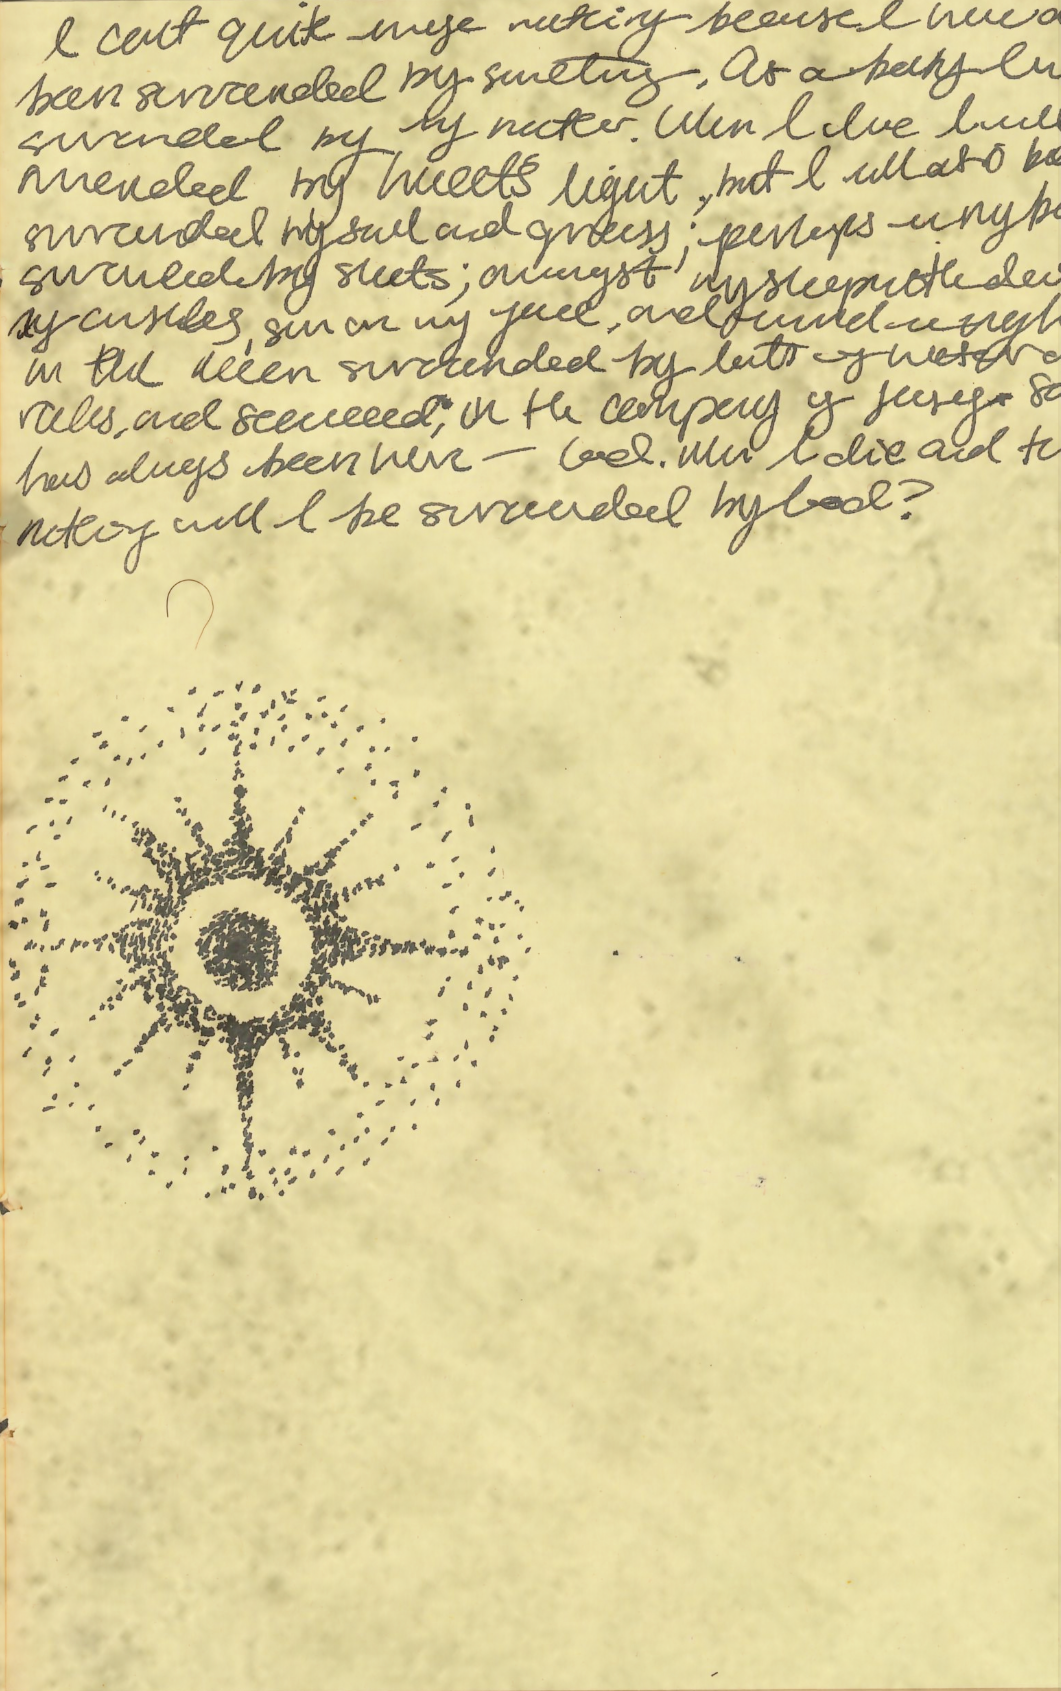
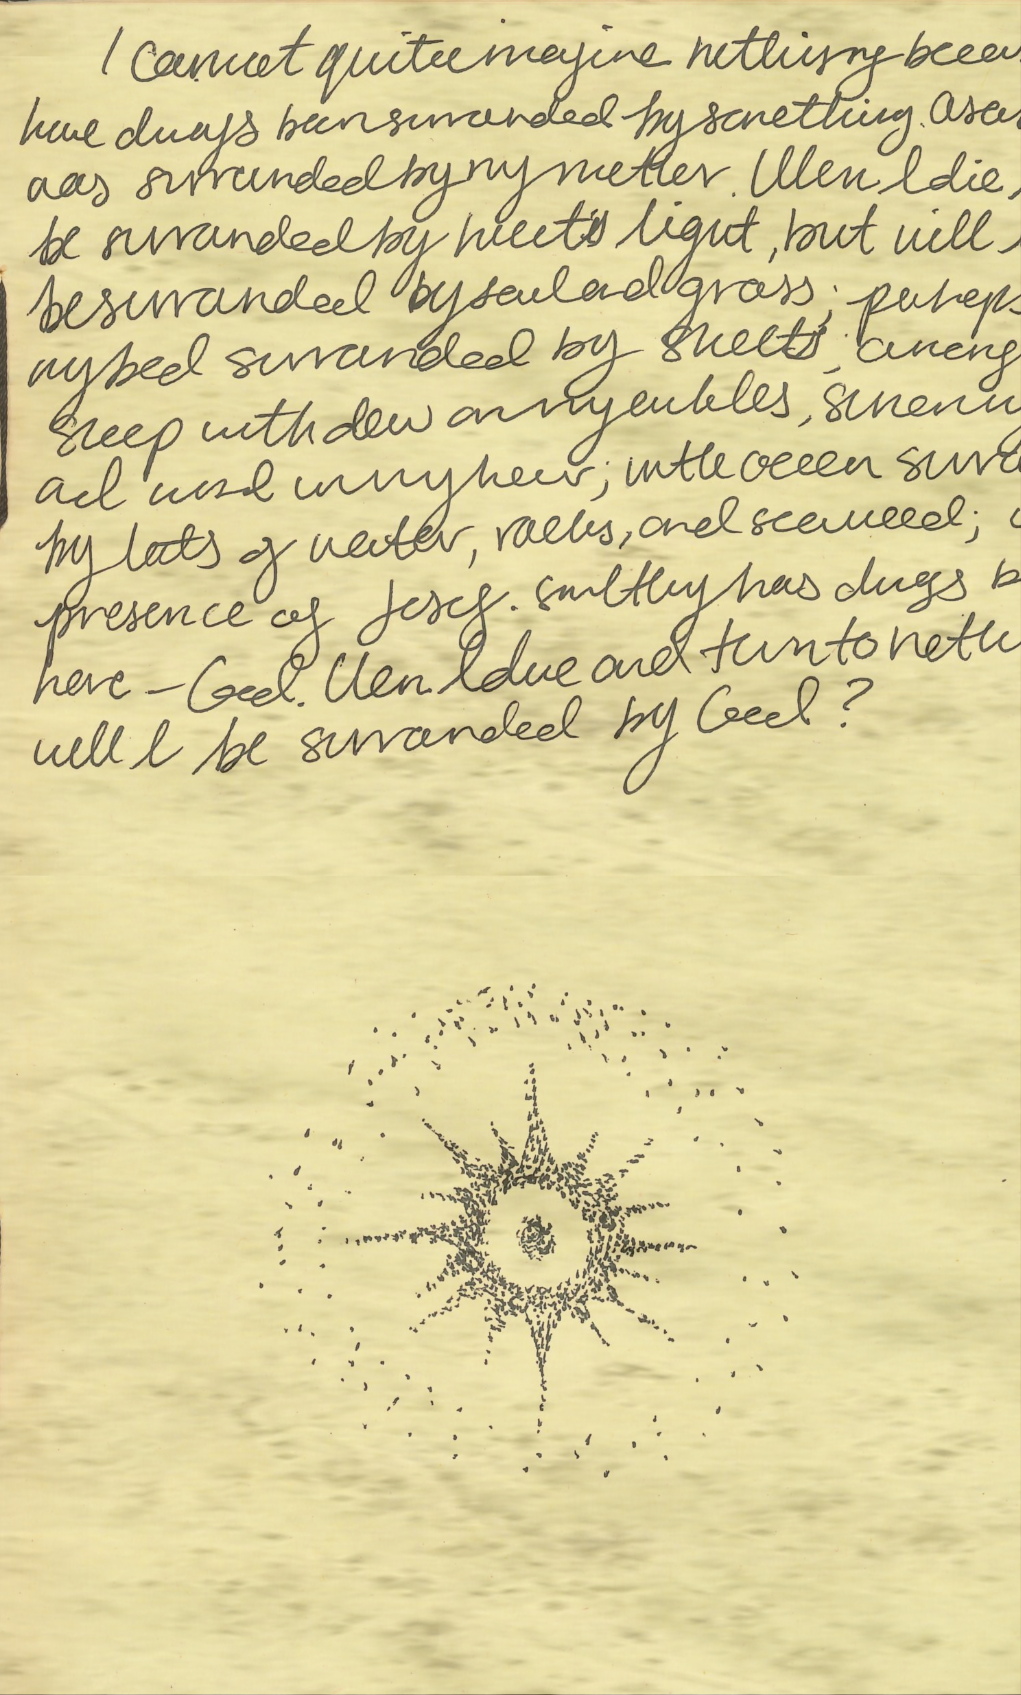
chore: added new journal entry pictures

diff --git a/src/content/entries/entry6.md b/src/content/entries/entry6.md
@@ -1,4 +1,8 @@
 
+![Journal6A.png](/assets/images/Journals/Journal6A.png)
+![Journal6B.png](/assets/images/Journals/Journal6B.png)
+![Journal6C.png](/assets/images/Journals/Journal6C.png)
+![Journal6D.png](/assets/images/Journals/Journal6D.png)
 ---
 
 Reverend Thomas delivered an impassioned sermon this evening. He said that our time, which has been spent suffering and in pain, will all be forgotten soon. We have been on this miserable plot for almost a decade, and as God proclaimed during the tenth winter Lucet’s holy light will clean our slate and bring us to our knees- repenting- and soon we will be nothing. 

diff --git a/src/content/entries/entry5.md b/src/content/entries/entry5.md
@@ -1,4 +1,6 @@
 
+![Journal5A.png](/assets/images/Journals/Journal5A.png)
+![Journal5B.png](/assets/images/Journals/Journal5B.png)
 ---
 
 When I dream, I do not dream of this place.

diff --git a/src/content/posts/3-03-6.md b/src/content/posts/3-03-6.md
@@ -8,4 +8,4 @@ A little about me is that I'm an artist from Seattle, Washington, I write music 
 Anyways, if any of those things sound interesting to you, I hope you stick around because I’ll be posting a lot more of that (once I get the rest of these pages formatted). Talk to you all soon!
 
 ---
-March 3, 2006
+March 03, 2006

diff --git a/src/content/posts/4-07-6.md b/src/content/posts/4-07-6.md
@@ -10,4 +10,4 @@ In the meantime, I’ve decided to start scanning and transcribing the journal e
 Until then, please share this page with anyone you know who could help with the search and I’ll talk to you all soon.
 
 ---
-April 7, 2006
+April 07, 2006

diff --git a/src/content/posts/5-06-6.md b/src/content/posts/5-06-6.md
@@ -6,4 +6,4 @@ I came straight back to my place as soon as I realized so I could start research
 Either way, I’m just over the moon excited to have a new lead to follow. I was terrified for a minute that this case would go cold and I’d never be able to find out more about this author or where they came from. Now, I’m one step closer to understanding what Lucet is. Tomorrow, I’m headed out to search Miller Creek and see what I can find. I’m not really sure what I’m expecting to find, a big church that says “Here lies the Cult of Lucet”? Yeah, right. But there’s gotta be some remains, some sort of mark on nature that signified human life, even if it’s a hundred years old, right? I guess I’ll be finding out tomorrow, but until then I’ll have more updates soon.
 
 ---
-May 6, 2006
+May 06, 2006

diff --git a/src/content/posts/5-07-6.md b/src/content/posts/5-07-6.md
@@ -12,4 +12,4 @@ It’s impossible to tell who the house or the grave belongs to and if they have
 I’m getting closer, so close I can feel it in the back of my neck. I don’t know to what extent I will find the answers to my questions, but I at least know that I’m getting near the end of the trail. Until my next update, I’ll talk to you all soon.
 
 ---
-May 7, 2006
+May 07, 2006